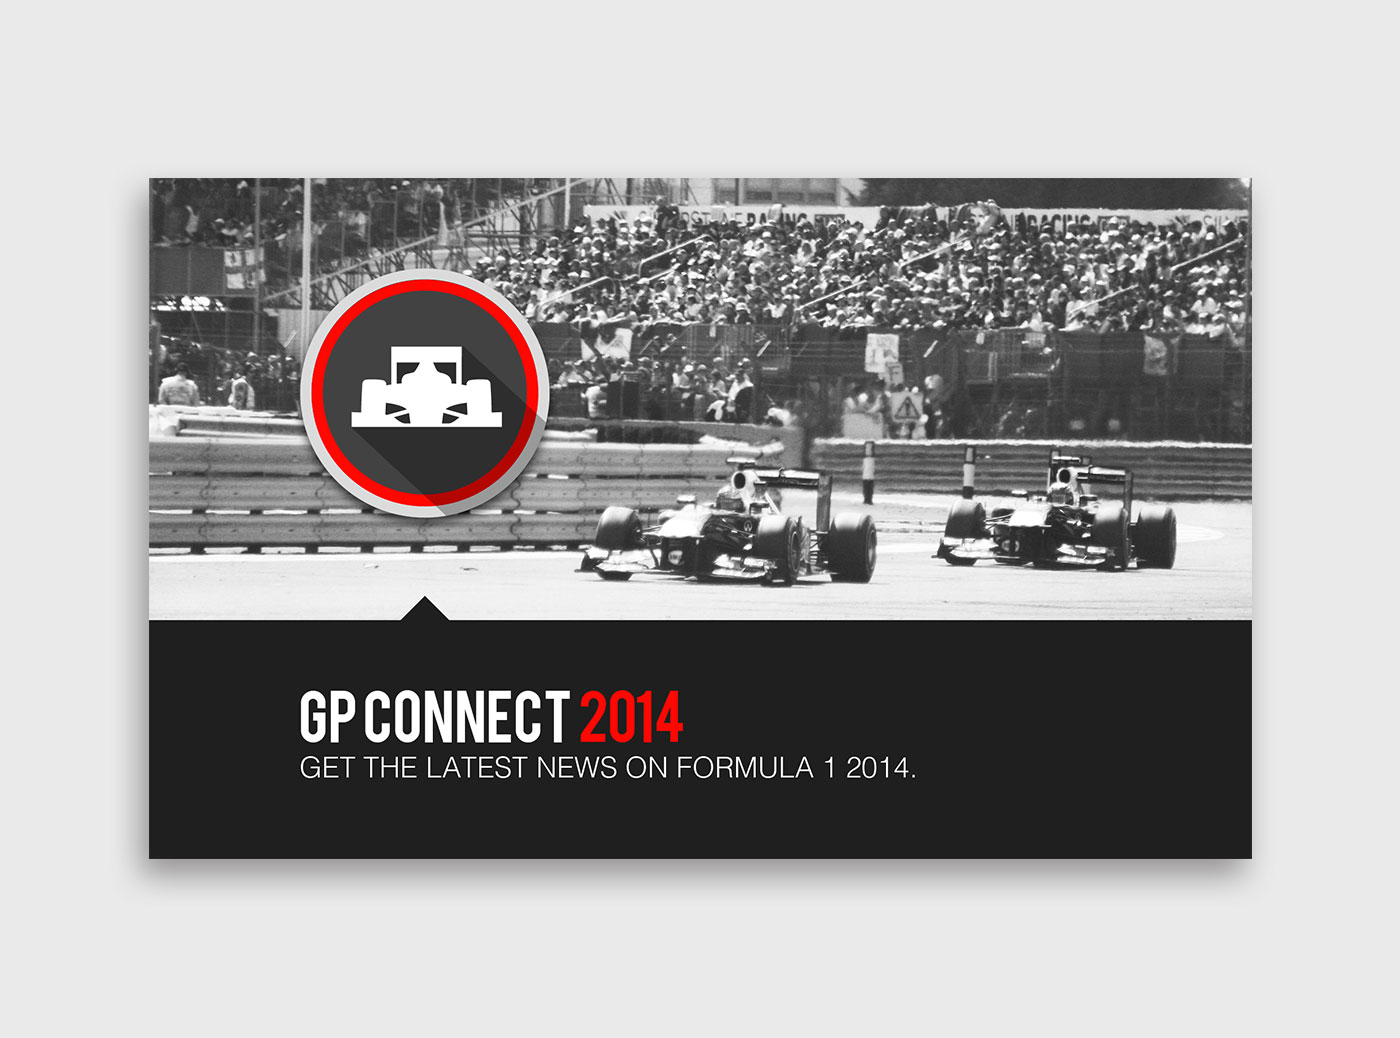
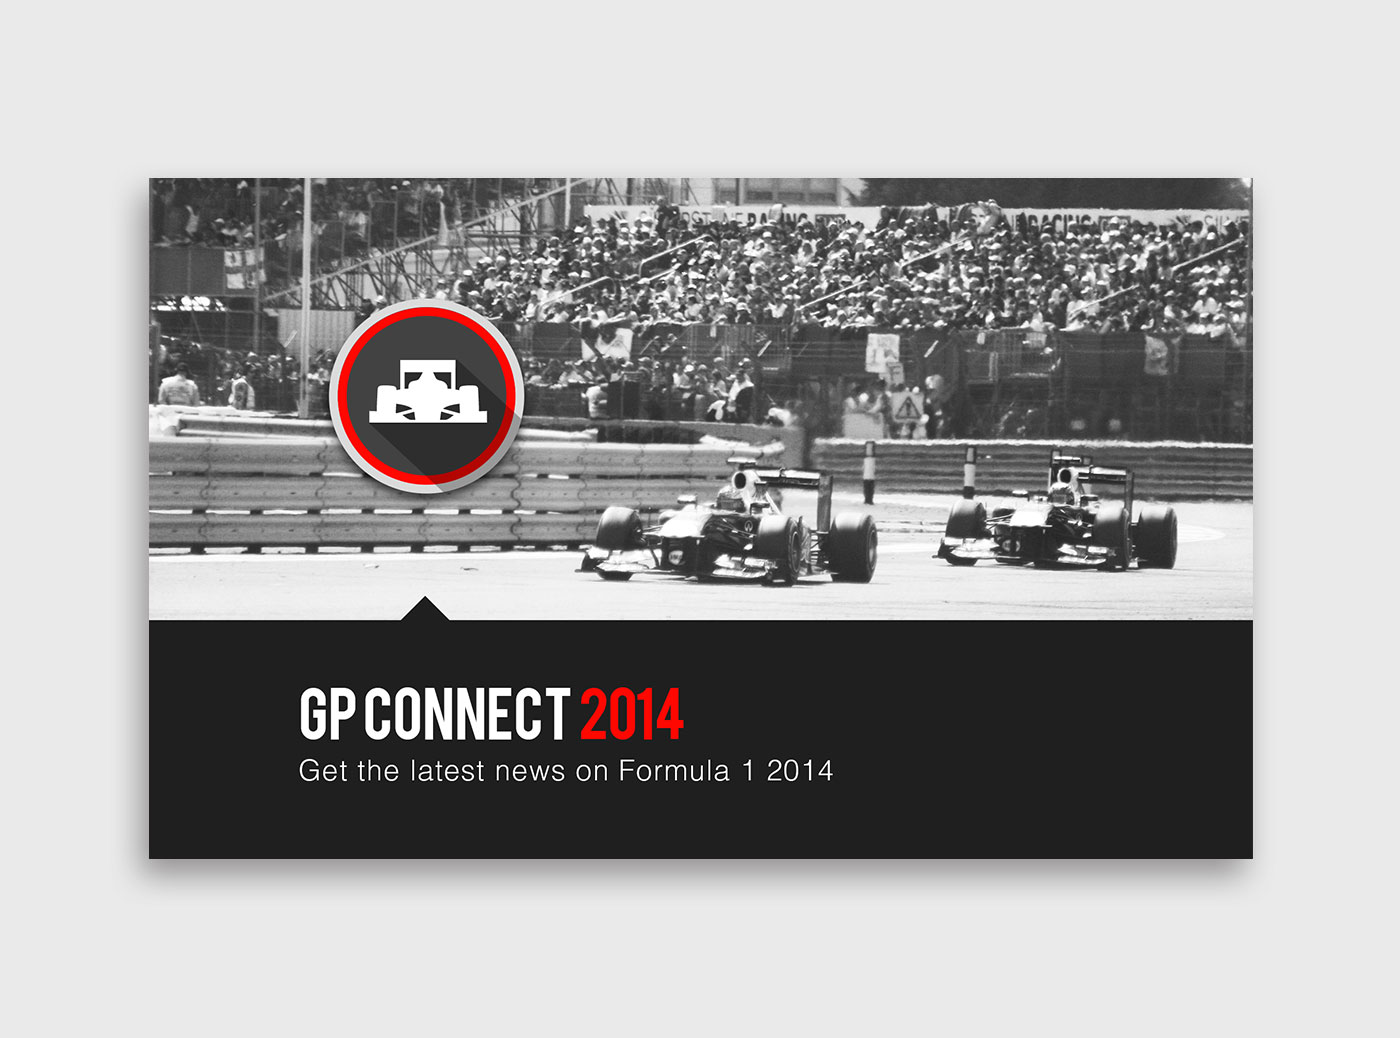
updated gp connect content

diff --git a/_posts/portfolio/2014-03-14-gp_connect_2014.md b/_posts/portfolio/2014-03-14-gp_connect_2014.md
@@ -9,16 +9,24 @@ image: /images/portfolio/gp_connect_2014.jpg
 source: https://appworld.blackberry.com/webstore/content/54587891/?lang=en&countrycode=US
 ---
 
-Bringing the app to life was a great exercise for myself to understand the basic responsibilites of a software developer. This allowed me to leave my comfort zone as strictly a designer in order to learn basic programming.
+Bringing the app to life was a great exercise for myself to take on multiple responsibilites including user flows and wireframing, branding, and software development. It was particularly challenging to reach out of my comfort zone as a visual designer into more of a software developer.
 
 ![GP Connect 2014 - User Flow]({{ "/images/portfolio/gp_connect_2014_01.jpg" }})
 <br><br>
 ![GP Connect 2014 - Sketches]({{ "/images/portfolio/gp_connect_2014_02.jpg" }})
 
-The early development stages required basic wireframes to vet with various users for input. After obtaining their feedback, I iterated on these for higher fidelity mockups and created branding and identity for the project. To have an understanding of the development side required traveling to conferences hosted by BlackBerry, connecting with other developers for tips, reading through design / developer guidelines, and learning a new markup language called QML.
+The early development stages required basic wireframes to vet with various users for input. After obtaining their feedback, I iterated on these flows for higher fidelity mockups to create branding and identity for the project. To have an understanding of the development side required traveling to conferences hosted by BlackBerry, connecting with other developers for tips, reading through design / developer guidelines, and learning a new markup language called QML.
 
 ![GP Connect 2014 - Branding]({{ "/images/portfolio/gp_connect_2014_03.jpg" }})
 
 Though the BlackBerry 10 operating system was ultimately decommisioned, it taught me the same principles I will use today to develop on any modern platform. In the end, after months of learning basic developer principles, I finally accomplished the task of basic app creation.
 
-![GP Connect 2014 - Sketches]({{ "/images/portfolio/gp_connect_2014_04.jpg" }})
+![GP Connect 2014 - Device - Driver List]({{ "/images/portfolio/gp_connect_2014_04.jpg" }})
+<br><br>
+![GP Connect 2014 - Device - Track Information]({{ "/images/portfolio/gp_connect_2014_05.jpg" }})
+<br><br>
+![GP Connect 2014 - Device - Track List]({{ "/images/portfolio/gp_connect_2014_06.jpg" }})
+
+One of the most rewarding experiences about this was personally being offered on stage after the keynote by then CEO of BlackBerry, Thorsten Heins to meet four time Formula 1 champion Lewis Hamilton. Of course I did not shy away from showcasing and getting his blessing on GP Connect!
+
+![GP Connect 2014 - Meeting Lewis Hamilton]({{ "/images/portfolio/gp_connect_2014_07.jpg" }})
